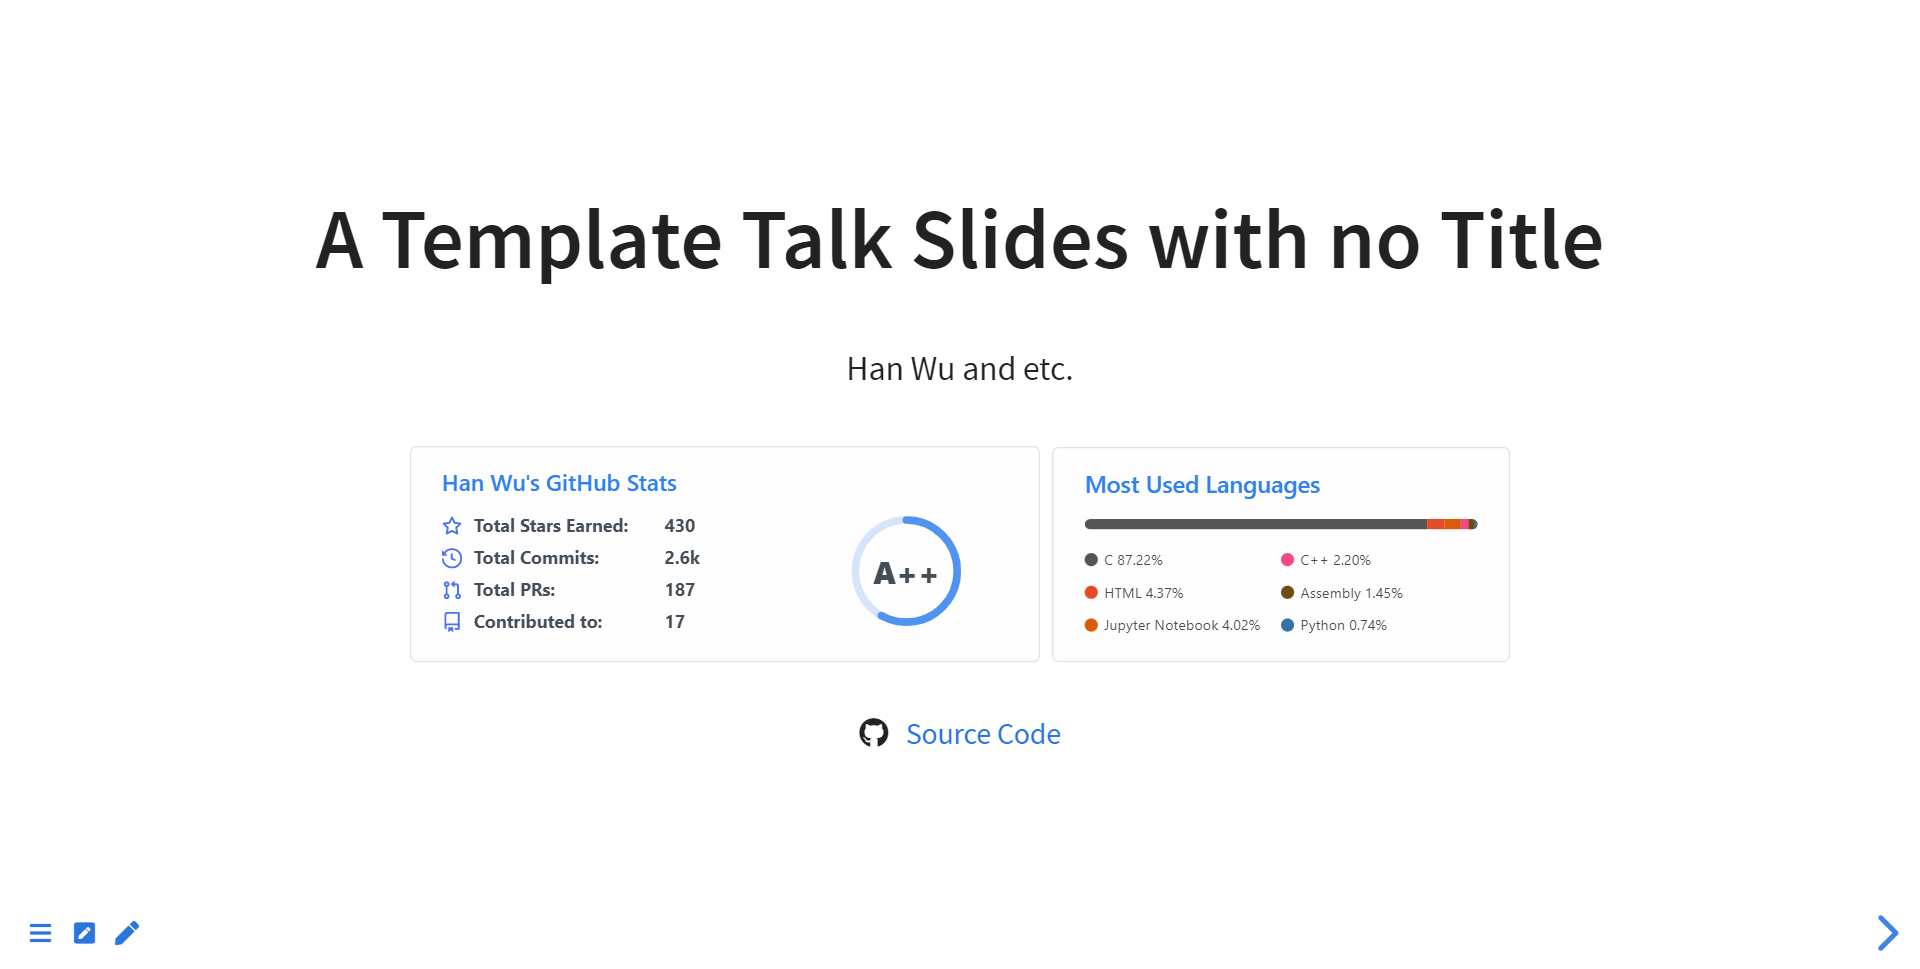
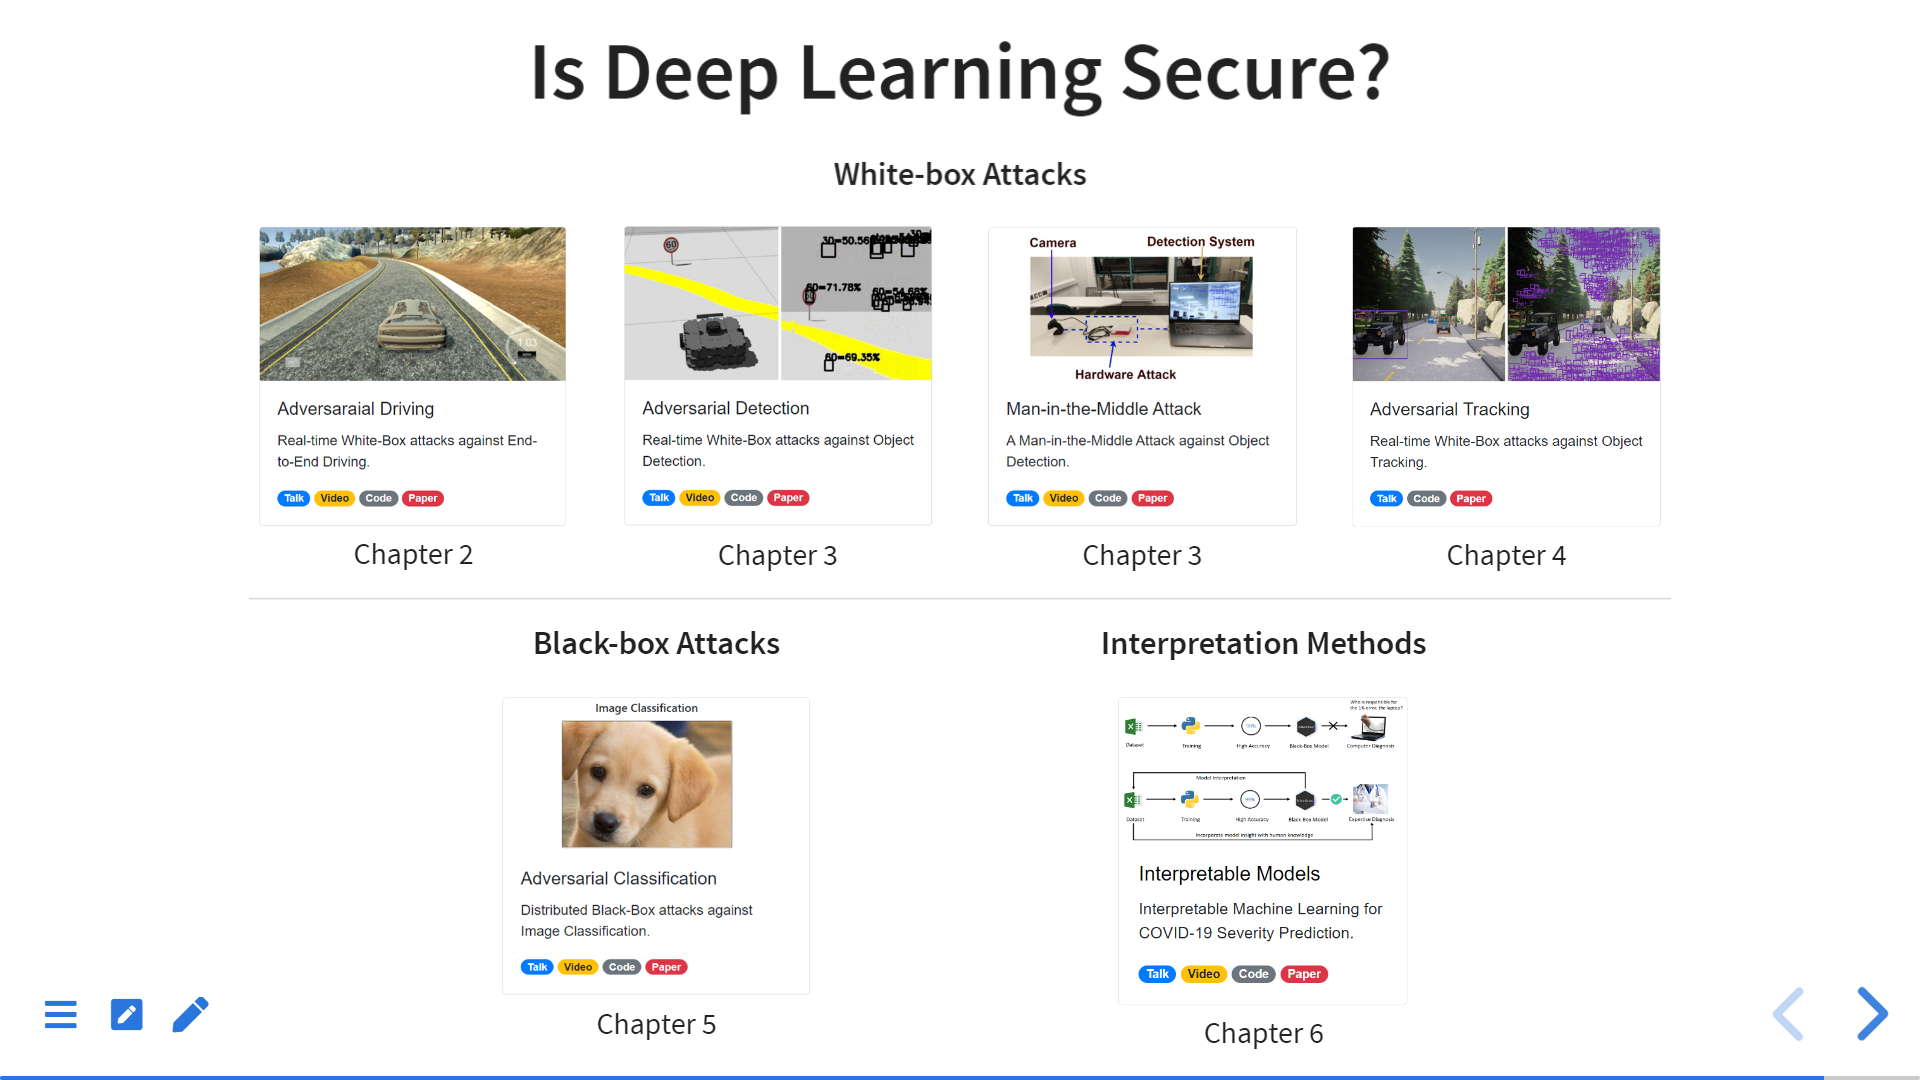
Add overview

diff --git a/docs/index.html b/docs/index.html
@@ -4,7 +4,7 @@
     <head>
         <meta charset="utf-8">
 
-        <title>Template</title>
+        <title>Ph.D. Viva - Han</title>
 
         <meta name="viewport" content="width=device-width, initial-scale=1.0, maximum-scale=1.0, user-scalable=no">
 
@@ -28,22 +28,57 @@
 
         <div class="reveal" >
             <div class="slides">
+                <section data-auto-animate data-banner="Practical Adversarial Attacks and Interpretation Methods for Deep Learning Models">
+                    <span class="menu-title" style="display: none">Title</span>
+                    <h3>Is Deep Learning Secure?</h3>
+                    <p class="blockquote-footer name" style="font-size: 25px;">Han Wu, University of Exeter</p>
+                    <!-- <h3 class="r-fit-text">Practical Adversarial Attacks and Interpretation Methods for Deep Learning Models</h3> -->
 
-                <section data-auto-animate>
+                </section>
+
+                <section data-auto-animate data-banner="Practical Adversarial Attacks and Interpretation Methods for Deep Learning Models">
                     <span class="menu-title" style="display: none">Overview</span>
-                    <h3 class="r-fit-text">A Template Talk Slides with no Title</h3>
-                    <p class="name" style="font-size: 25px;">Han Wu and etc.</p>
-                    <div class="r-hstack">
-                        <div>
-                            <a href="https://wuhanstudio.cc">
-                              <img align="center" width=55% src="https://github-readme-stats.wuhanstudio.vercel.app/api?username=wuhanstudio&include_all_commits=true&show_icons=true&hide=issues&count_private=true" />
-                            </a>
-                            <a href="https://wuhanstudio.uk">
-                              <img align="center" width=40% src="https://github-readme-stats.wuhanstudio.vercel.app/api/top-langs/?username=wuhanstudio&layout=compact&langs_count=6" />
-                            </a>
+                    <h4 style="margin-top: 0; margin-bottom: 10px;">Is Deep Learning Secure?</h4>
+                     <div class="row fragment" data-fragment-index="1">
+                        <p class="proj-title"><strong>White-box Attacks</strong></p>
+                     </div>
+                    <div class="row">
+                        <div class="col col-3 fragment" data-fragment-index="4">
+                            <img class="thumbnail" src="images/drivings.png"></img>
+                            <p class="proj">Chapter 2</p>
+                        </div>
+                        <div class="col col-3 fragment" data-fragment-index="2">
+                            <img class="thumbnail" src="images/detections.png"></img>
+                            <p class="proj">Chapter 3</p>
+                        </div>
+                        <div class="col col-3 fragment" data-fragment-index="3">
+                            <img class="thumbnail" src="images/minms.png"></img>
+                            <p class="proj">Chapter 3</p>
+                        </div>
+                        <div class="col col-3 fragment" data-fragment-index="5">
+                            <img class="thumbnail" src="images/trackings.png"></img>
+                            <p class="proj">Chapter 4</p>
                         </div>
                     </div>
-                    <p style="font-size: 22px;"><i class="fab fa-github"></i> &nbsp; <a href="https://github.com/wuhanstudio/talk-template">Source Code</a></p>
+                    <hr />
+                    <div class="row">
+                        <div class="col col-2">
+                        </div>
+                        <div class="col col-3 fragment" data-fragment-index="6">
+                            <p class="proj-title"><strong>Black-box Attacks</strong></p>
+                            <img class="thumbnail" src="images/iots.png"></img>
+                            <p class="proj">Chapter 5</p>
+                        </div>
+                        <div class="col col-2">
+                        </div>
+                        <div class="col col-3 fragment" data-fragment-index="7">
+                            <p class="proj-title"><strong>Interpretation Methods</strong></p>
+                            <img class="thumbnail" src="images/covids.png"></img>
+                            <p class="proj">Chapter 6</p>
+                        </div>
+                        <div class="col col-2">
+                        </div>
+                    </div>
 
                     <aside class="notes">
                     </aside>
@@ -52,16 +87,16 @@
                 <section>
                     <h2>Thanks</h2>
                     <div class="r-vstack">
-                        <p><a href="https://temp.wuhanstudio.uk/">https://temp.wuhanstudio.uk</a></p>
+                        <p><a href="https://viva.wuhanstudio.uk/">https://viva.wuhanstudio.uk</a></p>
                     </div>
                     <img src="images/qrcode.png" width="25%" />
-                    <p style="font-size: 22px;"><i class="fab fa-github"></i> &nbsp; <a href="https://github.com/wuhanstudio/talk-template">Source Code</a></p>
+                    <p style="font-size: 22px;"><i class="fab fa-github"></i> &nbsp; <a href="https://github.com/wuhanstudio/phd-viva">Source Code</a></p>
                 </section>
 
             </div>
         </div>
 
-        <!-- <script src="https://code.jquery.com/jquery-3.2.1.slim.min.js" integrity="sha384-KJ3o2DKtIkvYIK3UENzmM7KCkRr/rE9/Qpg6aAZGJwFDMVNA/GpGFF93hXpG5KkN" crossorigin="anonymous"></script> -->
+        <script src="https://code.jquery.com/jquery-3.2.1.slim.min.js" integrity="sha384-KJ3o2DKtIkvYIK3UENzmM7KCkRr/rE9/Qpg6aAZGJwFDMVNA/GpGFF93hXpG5KkN" crossorigin="anonymous"></script>
         <!-- <script src="https://cdn.jsdelivr.net/npm/popper.js@1.12.9/dist/umd/popper.min.js" integrity="sha384-ApNbgh9B+Y1QKtv3Rn7W3mgPxhU9K/ScQsAP7hUibX39j7fakFPskvXusvfa0b4Q" crossorigin="anonymous"></script> -->
         <!-- <script src="https://cdn.jsdelivr.net/npm/bootstrap@5.3.3/dist/js/bootstrap.bundle.min.js" integrity="sha384-YvpcrYf0tY3lHB60NNkmXc5s9fDVZLESaAA55NDzOxhy9GkcIdslK1eN7N6jIeHz" crossorigin="anonymous"></script> -->
 
@@ -128,6 +163,21 @@
                     ]
                 },
                 // showNotes: true,
+            });
+
+            Reveal.addEventListener( 'ready', function( event ) {
+                var banners = '<div id="banners" style="font-size: 20px;"><header \/><footer style="text-decoration: underline;" \/><\/div>';
+                $('section').each(function (index, slide ) {
+                    if ($(slide).children('section').length == 0) {
+                    var bannerText = $(slide).closest('[data-banner]').data('banner');
+                    if (bannerText) { 
+                        var background = $(slide.slideBackgroundElement);
+                        background.append(banners);
+                        // background.find('header').text(bannerText);
+                        background.find('footer').text(bannerText);
+                    }
+                    }
+                });
             });
         </script>
     </body>

diff --git a/docs/style.css b/docs/style.css
@@ -7,31 +7,44 @@
     font-size: 0.6em;
 }
 
-.agenda{
-    line-height:150%;
-    padding-top: 1%;
-    padding-bottom: 1%;
-    font-size: 25px;
+.thumbnail {
+    margin-top: 15px !important;
+    margin-bottom: 5px !important;
 }
 
-.avatar {
-    width: 10%;
-    border-radius: 50%;
-}
-
-.wuhanstudio {
-    width: 10%;
-    border-radius: 50%;
-    margin-bottom: 0;
+.proj{
+    line-height:100%;
+    margin-top: 0 !important;
+    margin-bottom: 0 !important;
+    padding-top: 0;
     padding-bottom: 0;
+    font-size: 20px;
 }
 
-.logo {
-    width: 20%;
+.proj-title{
+    line-height:100%;
+    margin-top: 0 !important;
+    margin-bottom: 0 !important;
+    padding-top: 0;
+    padding-bottom: 0;
+    font-size: 22px;
 }
 
-.scrollable {
-    height: 700px;
-    overflow-y: visible;  !important;
-    overflow-x: hidden !important;
+hr {
+    margin-top: 15px !important;
+    margin-bottom: 15px !important;
+}
+
+header { 
+    position: absolute;
+    top: 20px;
+    width: 100%;
+    text-align:center;
+}
+
+footer { 
+    position: absolute;
+    bottom: 10px;
+    width: 100%;
+    text-align:center;
 }
